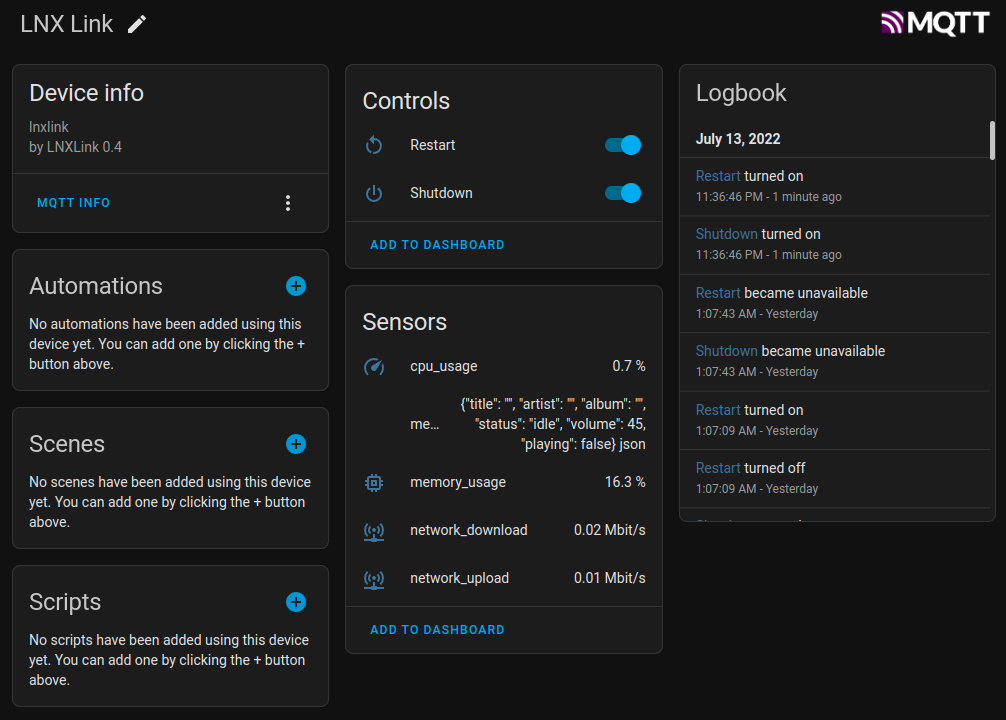
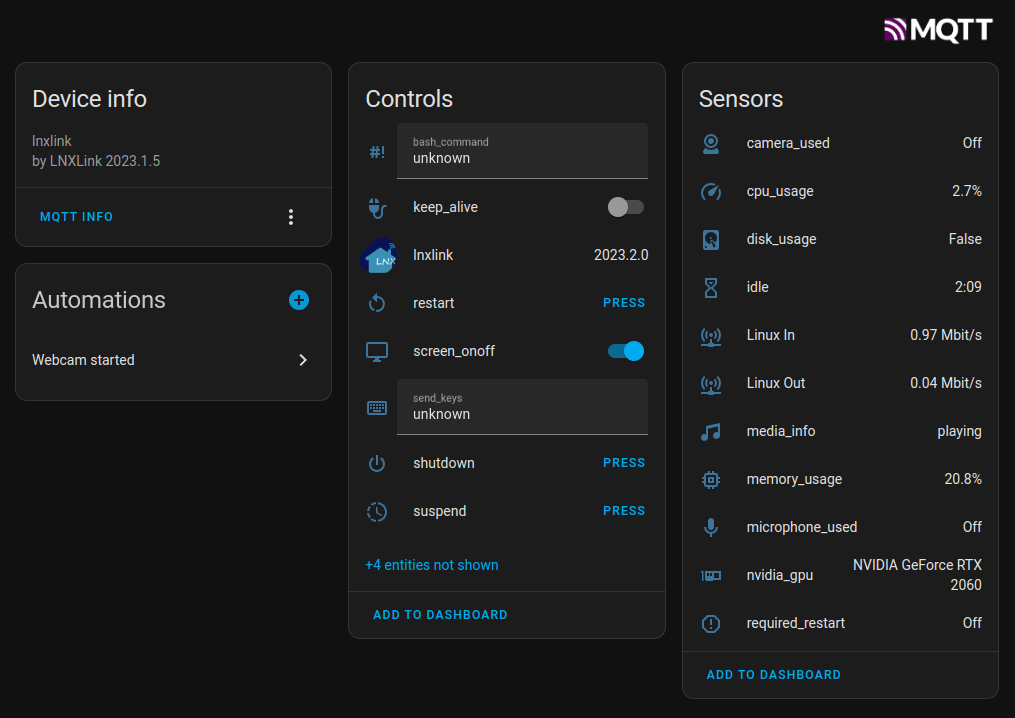
Added Features

diff --git a/index.html b/index.html
@@ -132,10 +132,9 @@
                     <hr class="section-heading-spacer">
                     <div class="clearfix"></div>
                     <h2 class="section-heading">Features</h2>
-                    <p class="lead"><b>System control: </b> Shutdown, Restart, Send Keys, Notify, Media, Screen On/Off.</p>
-                    <p class="lead"><b>System monitor: </b> CPU, Ram, Network, Media, Microphone, Idle, Bluetooth battery.</p>
+                    <p class="lead"><b>System control: </b> Shutdown, Restart, Suspend, Keep Alive, Send Keys, Notify, Media, Screen On/Off, Bash.</p>
+                    <p class="lead"><b>System monitor: </b> CPU, Ram, Network, Media, Microphone, Idle, Microphone & Camera used, Disks, Battery, GPU.</p>
                     <p class="lead"><b>Easily expanded: </b> Modular design so that programmers can add more features just by creating a new application.</p>
-
                 </div>
                 <div class="col-lg-5 col-sm-pull-6 col-sm-6">
                     <img class="img-responsive" src="img/cpu.png" alt="">
